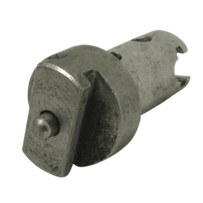
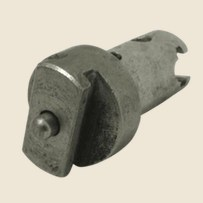
Inverte esquema do catálogo: fundo branco e cards bege
- Seção branca, cards e miniaturas em bege (#eee6d6)
- Recompõe as fotos do catálogo (ponteiras, acessórios, kit) sobre o bege
- Miniatura das varetas recomposta (troca fundo branco por bege) via varetas-cat.jpg
- Tamanho dos itens nas fotos mantido

Claude-Session: https://claude.ai/code/session_01BUUK4AvKAcJuzsJsvTyh2a

diff --git a/varetas-aco-cromo-silicio.html b/varetas-aco-cromo-silicio.html
@@ -139,7 +139,7 @@
             </div>
             <div class="cat-grid">
                 <div class="cat-item reveal">
-                    <div class="cat-item-thumb"><img src="img/produto-varetas.jpg" alt="Vareta Ø8 mm — 0,91 m" loading="lazy"></div>
+                    <div class="cat-item-thumb"><img src="img/varetas-cat.jpg" alt="Vareta Ø8 mm — 0,91 m" loading="lazy"></div>
                     <div class="cat-item-body">
                         <h3>Vareta Ø8 mm — 0,91 m</h3>
                         <p>Aço cromo-silício • engates T</p>
@@ -156,7 +156,7 @@
                     </div>
                 </div>
                 <div class="cat-item reveal">
-                    <div class="cat-item-thumb"><img src="img/produto-varetas.jpg" alt="Vareta Ø8 mm — 1,05 m" loading="lazy"></div>
+                    <div class="cat-item-thumb"><img src="img/varetas-cat.jpg" alt="Vareta Ø8 mm — 1,05 m" loading="lazy"></div>
                     <div class="cat-item-body">
                         <h3>Vareta Ø8 mm — 1,05 m</h3>
                         <p>Aço cromo-silício • engates T</p>
@@ -173,7 +173,7 @@
                     </div>
                 </div>
                 <div class="cat-item reveal">
-                    <div class="cat-item-thumb"><img src="img/produto-varetas.jpg" alt="Vareta Ø8 mm — 1,52 m" loading="lazy"></div>
+                    <div class="cat-item-thumb"><img src="img/varetas-cat.jpg" alt="Vareta Ø8 mm — 1,52 m" loading="lazy"></div>
                     <div class="cat-item-body">
                         <h3>Vareta Ø8 mm — 1,52 m</h3>
                         <p>Aço cromo-silício • engates T</p>
@@ -190,7 +190,7 @@
                     </div>
                 </div>
                 <div class="cat-item reveal">
-                    <div class="cat-item-thumb"><img src="img/produto-varetas.jpg" alt="Vareta Ø8 mm — 2,00 m" loading="lazy"></div>
+                    <div class="cat-item-thumb"><img src="img/varetas-cat.jpg" alt="Vareta Ø8 mm — 2,00 m" loading="lazy"></div>
                     <div class="cat-item-body">
                         <h3>Vareta Ø8 mm — 2,00 m</h3>
                         <p>Aço cromo-silício • engates T</p>
@@ -207,7 +207,7 @@
                     </div>
                 </div>
                 <div class="cat-item reveal">
-                    <div class="cat-item-thumb"><img src="img/produto-varetas.jpg" alt="Vareta Ø8 mm — 3,05 m" loading="lazy"></div>
+                    <div class="cat-item-thumb"><img src="img/varetas-cat.jpg" alt="Vareta Ø8 mm — 3,05 m" loading="lazy"></div>
                     <div class="cat-item-body">
                         <h3>Vareta Ø8 mm — 3,05 m</h3>
                         <p>Aço cromo-silício • engates T</p>

diff --git a/css/product.css b/css/product.css
@@ -252,7 +252,7 @@
 /* ==================== CATÁLOGO (itens da categoria) ==================== */
 .catalog {
     padding: 76px 0;
-    background: #efe9df;
+    background: var(--white);
 }
 
 .catalog .cat-head {
@@ -276,10 +276,10 @@
 }
 
 .cat-item {
-    border: 1px solid #e5ded1;
+    border: 1px solid #e3dbcb;
     border-radius: var(--radius);
     overflow: hidden;
-    background: var(--white);
+    background: #eee6d6;
     box-shadow: var(--shadow-sm);
     display: flex;
     flex-direction: column;
@@ -294,8 +294,8 @@
 .cat-item-thumb {
     height: 160px;
     overflow: hidden;
-    background: var(--white);
-    border-bottom: 1px solid #f0ece4;
+    background: #eee6d6;
+    border-bottom: 1px solid #e3dbcb;
     display: flex;
     align-items: center;
     justify-content: center;
